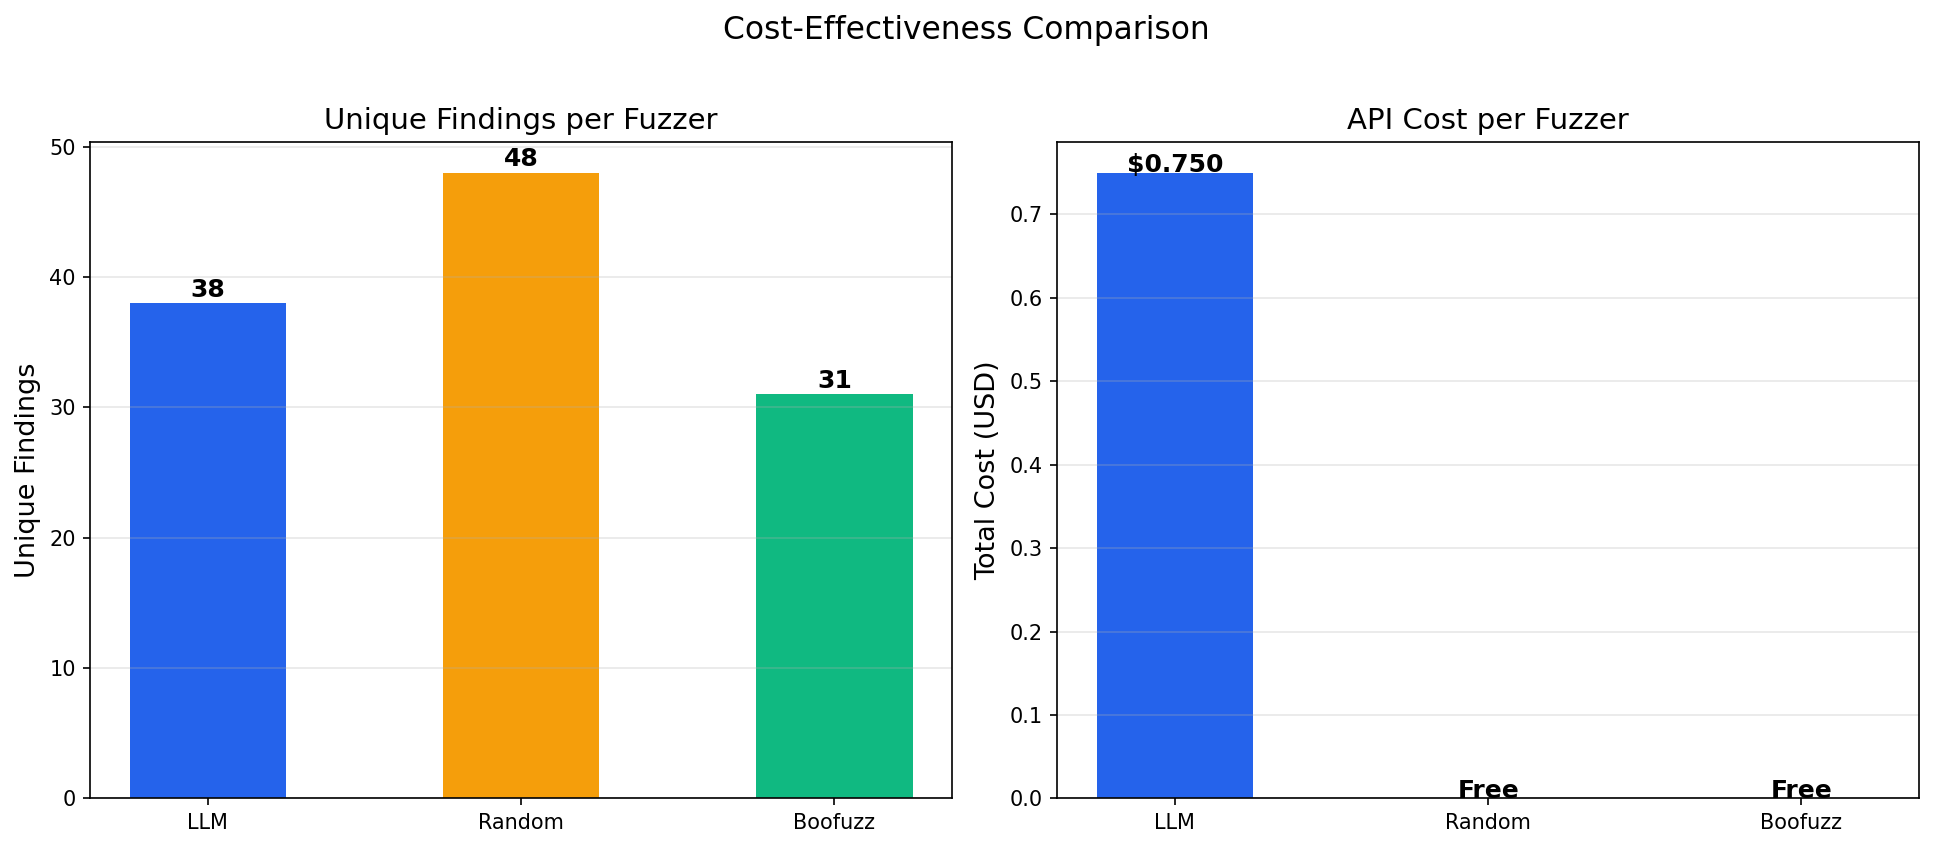
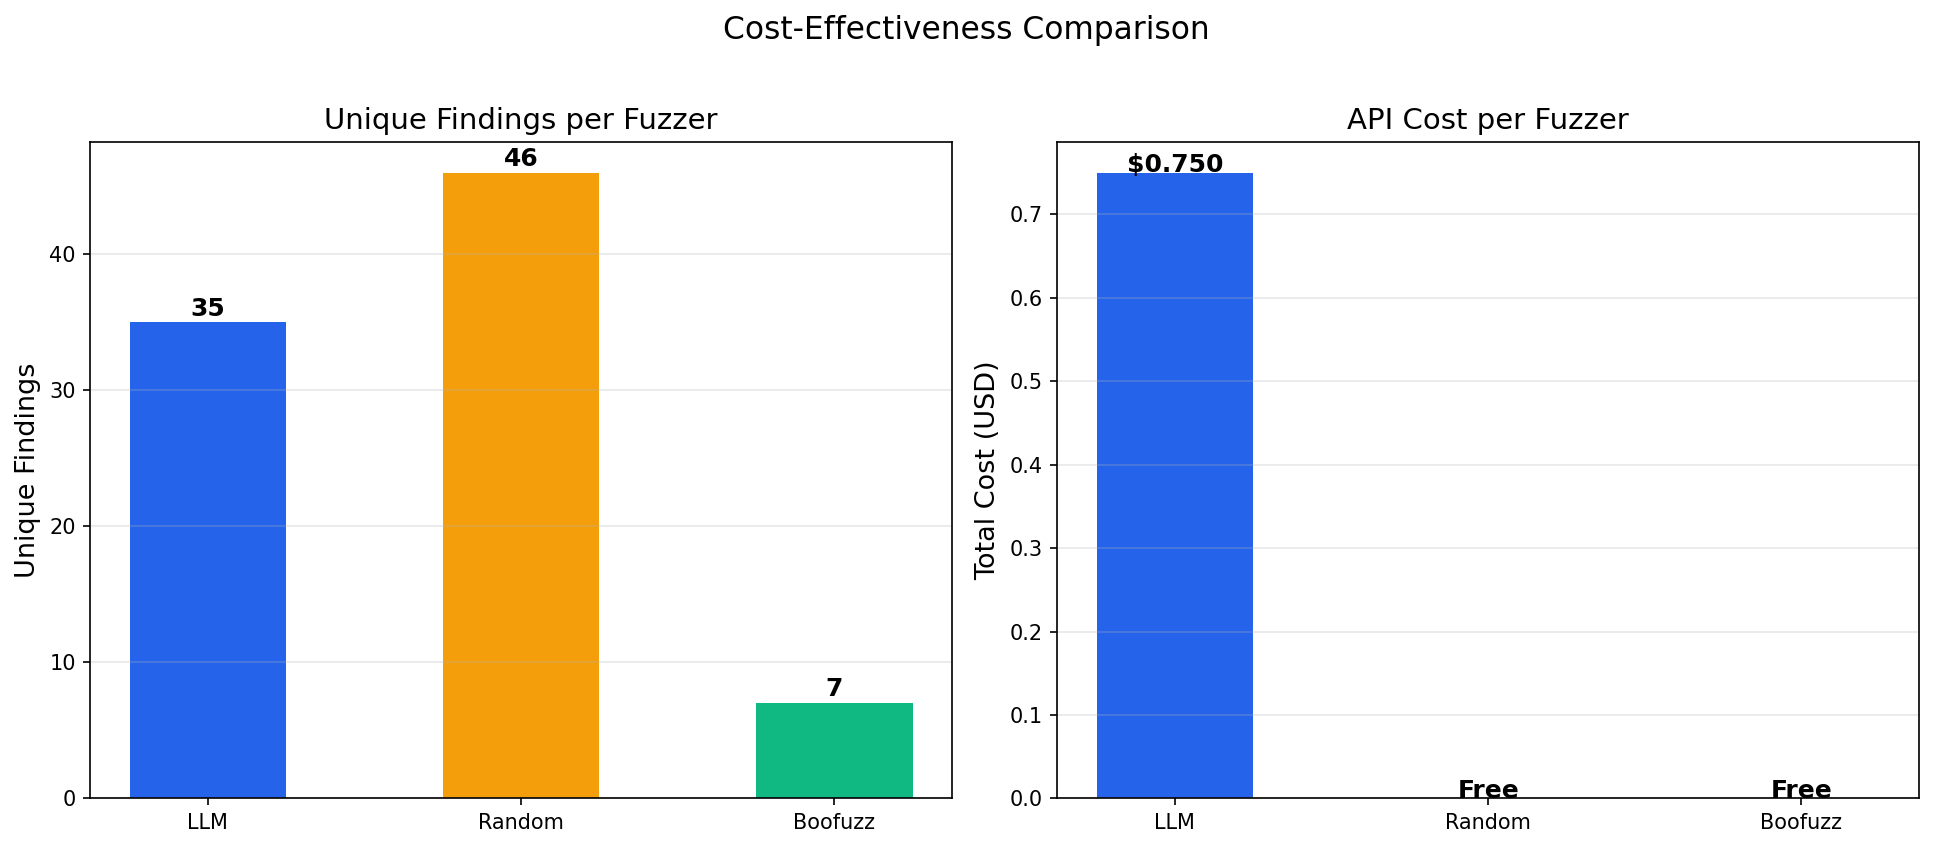
Phase 1: Fix critical data issues in evaluation pipeline
- Normalize rule names for Venn diagram: lowercase + underscore canonical
  form so cross-fuzzer overlap is detected (was 0, now LLM&Random=2,
  LLM&Boofuzz=4, Random&Boofuzz=1)
- Add zero-frame fallback in test_generator.py: if LLM strategy produces
  no frames, fall back to generic varied sequence
- Add base reward line to convergence graph: subtracts exploration bonus
  from first-seen rules, showing true reward trend (LLM base only -4.8%
  vs -19.9% total, confirming apparent decline was exploration bonus
  wearing off)

Made-with: Cursor

diff --git a/evaluation/compute_metrics.py b/evaluation/compute_metrics.py
@@ -22,7 +22,7 @@ import math
 import argparse
 from pathlib import Path
 from datetime import datetime
-from typing import Dict, Any, List, Tuple, Set
+from typing import Dict, Any, List, Optional, Tuple, Set
 from collections import Counter
 
 import numpy as np
@@ -255,8 +255,34 @@ def plot_diversity(diversities: Dict[str, Dict], out_path: Path):
 # Metric 5 — Unique Findings (Venn Diagram)
 # ---------------------------------------------------------------------------
 
+def normalize_rule_name(raw: str) -> str:
+    """Normalize a rule name to a canonical form for cross-fuzzer comparison.
+
+    Steps:
+      1. Lowercase
+      2. Replace spaces, dots, hyphens with underscores
+      3. Collapse repeated underscores
+      4. Strip leading/trailing underscores
+    This maps 'Frame Filtering.destination_address_validity',
+    'frame_filtering_destination_address_validity', and
+    'Destination Address Validity' to comparable forms.
+    """
+    s = raw.lower().replace(" ", "_").replace(".", "_").replace("-", "_")
+    while "__" in s:
+        s = s.replace("__", "_")
+    return s.strip("_")
+
+
 def build_finding_set(df: pd.DataFrame) -> Set[str]:
-    """Build a set of (rule, violation_type) strings from history."""
+    """Build a set of normalized rule names from history (for overlap/Venn)."""
+    if df.empty:
+        return set()
+    rules = get_rule_field(df)
+    return {normalize_rule_name(r) for r in rules}
+
+
+def build_detailed_finding_set(df: pd.DataFrame) -> Set[str]:
+    """Build a set of (rule|violation_type) strings for per-fuzzer listing."""
     if df.empty:
         return set()
     rules = get_rule_field(df)
@@ -347,10 +373,35 @@ def reward_moving_average(df: pd.DataFrame, window: int = 5) -> List[float]:
     return ma
 
 
+def compute_base_reward(df: pd.DataFrame, new_rule_bonus: float = 1.0) -> List[float]:
+    """Compute reward with exploration bonus removed.
+
+    For each iteration, if the protocol_rule appears for the first time
+    in history up to that point, subtract ``new_rule_bonus`` from the reward.
+    This gives the "base" reward that reflects actual fuzzing impact only.
+    """
+    if df.empty or "reward" not in df.columns:
+        return []
+    rules = get_rule_field(df)
+    rewards = df["reward"].tolist()
+
+    seen: set = set()
+    base = []
+    for rule, reward in zip(rules, rewards):
+        norm = normalize_rule_name(str(rule))
+        if norm not in seen:
+            seen.add(norm)
+            base.append(reward - new_rule_bonus)
+        else:
+            base.append(reward)
+    return base
+
+
 def plot_reward_convergence(
     ma_curves: Dict[str, List[float]],
     out_path: Path,
     window: int = 5,
+    base_ma_curves: Optional[Dict[str, List[float]]] = None,
 ):
     fig, ax = plt.subplots(figsize=(10, 6))
     colors = {"LLM": "#2563eb", "Random": "#f59e0b", "Boofuzz": "#10b981"}
@@ -360,14 +411,25 @@ def plot_reward_convergence(
         ax.plot(
             range(1, len(ma) + 1),
             ma,
-            label=name,
+            label=f"{name} (total)",
             linewidth=2.2,
             color=colors.get(name, None),
         )
+        if base_ma_curves and name in base_ma_curves and base_ma_curves[name]:
+            bma = base_ma_curves[name]
+            ax.plot(
+                range(1, len(bma) + 1),
+                bma,
+                label=f"{name} (base, excl. exploration bonus)",
+                linewidth=1.5,
+                color=colors.get(name, None),
+                linestyle="--",
+                alpha=0.7,
+            )
     ax.set_xlabel("Iteration", fontsize=13)
     ax.set_ylabel(f"Reward (rolling avg, window={window})", fontsize=13)
     ax.set_title("Reward Convergence — Learning Curve", fontsize=14)
-    ax.legend(fontsize=12)
+    ax.legend(fontsize=10, loc="best")
     ax.grid(True, alpha=0.3)
     fig.tight_layout()
     fig.savefig(out_path, dpi=150)
@@ -653,6 +715,7 @@ def main():
     print("=" * 60)
 
     finding_sets = {name: build_finding_set(df) for name, df in data.items()}
+    detailed_sets = {name: build_detailed_finding_set(df) for name, df in data.items()}
     venn_data = compute_venn_data(finding_sets)
 
     for name in data:
@@ -662,6 +725,11 @@ def main():
 
     if "all_three" in venn_data:
         print(f"  Shared by all three: {venn_data['all_three']}")
+    for i, ni in enumerate(list(data.keys())):
+        for nj in list(data.keys())[i+1:]:
+            key = f"{ni}_and_{nj}"
+            if key in venn_data:
+                print(f"  Shared {ni} & {nj}: {venn_data[key]}")
 
     if finding_sets:
         plot_venn(finding_sets, FIGURES_DIR / "unique_findings_venn.png")
@@ -671,6 +739,8 @@ def main():
         key = f"{name}_only"
         if key in venn_data:
             venn_serializable[key] = venn_data[key][:20]
+        detail_key = f"{name}_detailed"
+        venn_serializable[detail_key] = sorted(detailed_sets.get(name, set()))[:20]
     report["unique_findings"] = venn_serializable
 
     # -----------------------------------------------------------------------
@@ -681,27 +751,50 @@ def main():
     print("=" * 60)
 
     ma_curves = {}
+    base_ma_curves = {}
     convergence_results = {}
     for name, df in data.items():
         ma = reward_moving_average(df, window=args.window)
         ma_curves[name] = ma
+
+        base_rewards = compute_base_reward(df)
+        if base_rewards:
+            base_ma = pd.Series(base_rewards).rolling(
+                window=min(args.window, max(1, len(base_rewards))),
+                min_periods=1
+            ).mean().tolist()
+        else:
+            base_ma = []
+        base_ma_curves[name] = base_ma
+
         if ma:
             first_half = ma[: len(ma) // 2] if len(ma) >= 4 else ma
             second_half = ma[len(ma) // 2 :] if len(ma) >= 4 else ma
             early = np.mean(first_half)
             late = np.mean(second_half)
             improvement = ((late - early) / abs(early) * 100) if early != 0 else 0
+
+            base_early = np.mean(base_ma[: len(base_ma) // 2]) if len(base_ma) >= 4 else (np.mean(base_ma) if base_ma else 0)
+            base_late = np.mean(base_ma[len(base_ma) // 2 :]) if len(base_ma) >= 4 else (np.mean(base_ma) if base_ma else 0)
+            base_improvement = ((base_late - base_early) / abs(base_early) * 100) if base_early != 0 else 0
+
             convergence_results[name] = {
                 "early_mean_reward": round(float(early), 4),
                 "late_mean_reward": round(float(late), 4),
                 "improvement_percent": round(float(improvement), 1),
                 "final_ma": round(ma[-1], 4),
+                "base_early_mean": round(float(base_early), 4),
+                "base_late_mean": round(float(base_late), 4),
+                "base_improvement_percent": round(float(base_improvement), 1),
             }
             print(f"  {name}: early={early:.3f}, late={late:.3f}, "
                   f"improvement={improvement:+.1f}%, final_ma={ma[-1]:.3f}")
+            print(f"    base (excl. exploration bonus): early={base_early:.3f}, "
+                  f"late={base_late:.3f}, improvement={base_improvement:+.1f}%")
 
     if ma_curves:
-        plot_reward_convergence(ma_curves, FIGURES_DIR / "reward_convergence.png", args.window)
+        plot_reward_convergence(ma_curves, FIGURES_DIR / "reward_convergence.png",
+                                args.window, base_ma_curves)
     report["reward_convergence"] = convergence_results
 
     # -----------------------------------------------------------------------

diff --git a/llm_fuzzer/core/test_generator.py b/llm_fuzzer/core/test_generator.py
@@ -91,7 +91,12 @@ class TestGenerator:
         # Generate frames based on mutation parameters
         frames = self._generate_mutation_frames(seed_frame, strategy)
         
-        # Create output structure (HYBRID - includes both test_cases and params)
+        # Fallback: if no frames were generated, create a generic varied sequence
+        fallback_used = False
+        if len(frames) == 0:
+            frames = self._create_generic_varied_sequence(seed_frame, {})
+            fallback_used = True
+        
         output = {
             'vl_id': strategy['target_vl'],
             'frames': frames,
@@ -108,7 +113,8 @@ class TestGenerator:
                 'sequence_number_override': strategy.get('sequence_number_override'),
                 'dest_mac_mutation': strategy.get('dest_mac_mutation'),
                 'strategy_type': strategy.get('strategy', 'unknown'),
-                'num_frames': len(frames)
+                'num_frames': len(frames),
+                'fallback': fallback_used
             }
         }
         
